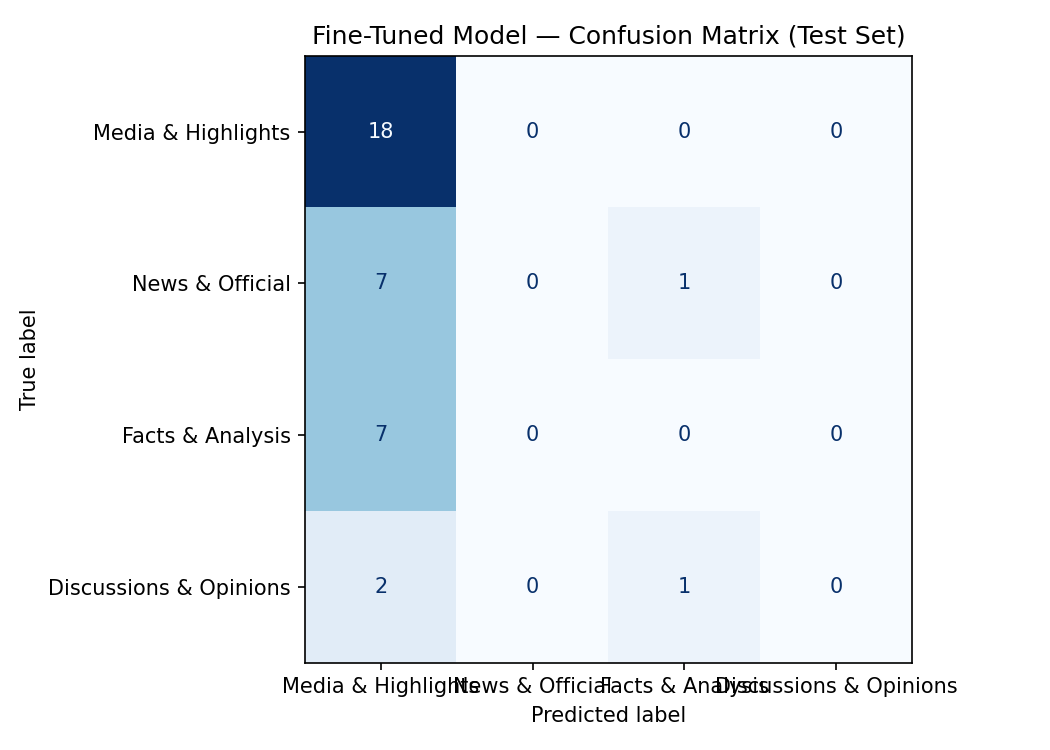
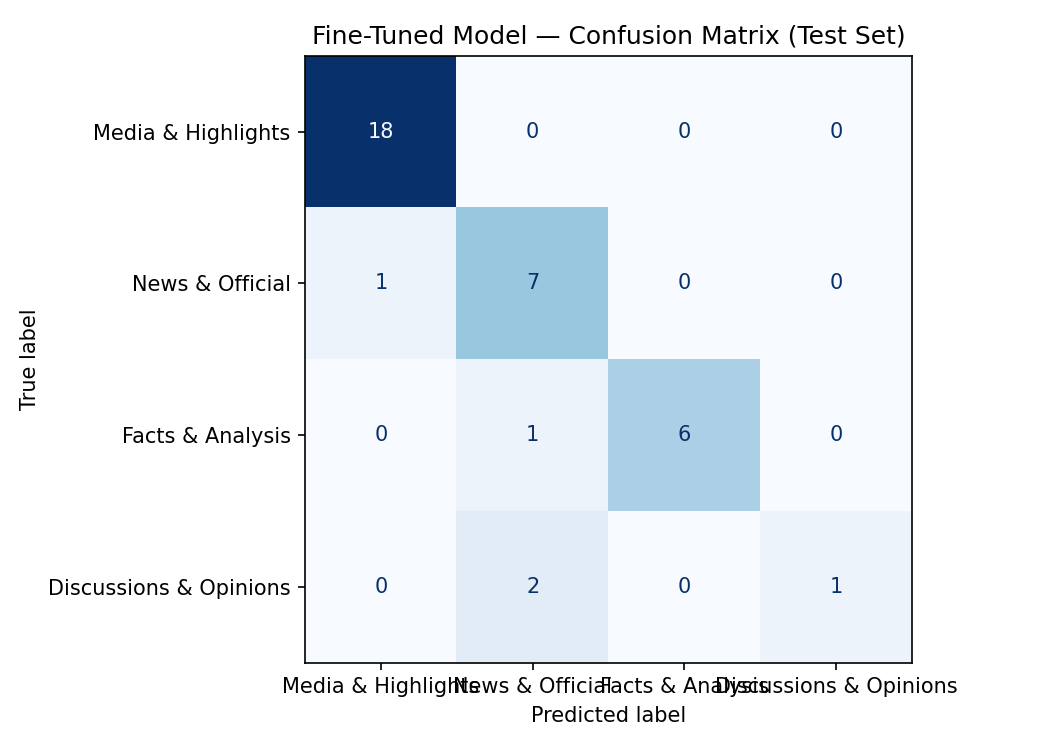
Updated results and some evaluation report along with some required sections filled out

diff --git a/README.md b/README.md
@@ -10,7 +10,7 @@ Link:
 
 ## Community Choice & Reasoning
 
-I chose baseball subreddits because this community contains some posts based on baseball game live highlights and some breaking news on Major League Baseball. This is a good fit for a classification task because it contains hard data and subjective freedom. The discourse is varied enough to be interesting by highly technical, statistic-driven "sabermetric" analysis to immediate, emotional reactions during live game threads.
+I chose baseball subreddits because this community contained some posts based on baseball game live highlights and some breaking news on Major League Baseball. This was a good fit for a classification task because it included hard data and subjective freedom. The discourse was varied enough to be interesting by highly technical, statistic-driven "sabermetric" analysis to immediate, emotional reactions during live game threads.
 
 ---
 
@@ -20,54 +20,80 @@ I chose baseball subreddits because this community contains some posts based on 
 |--------|-------------------------|------------------------------|------------------------------|
 | Media & Highlights | Direct video clips of gameplay or in-game events. | Padres extend their lead to five with a Jackson Merrill towering 2-run shot in the 9th | The Rays take the lead and drop a 4-run 5th inning on Shohei Ohtani |
 | News & Official | Direct links to reports, signings, transactions, or injury updates from recognized media or MLB sources. | [MLBTR] Braves To Select Carlos Carrasco, Jair Camargo | [Stebbins] Out in Milwaukee, the Guardians recalled Kahlil Watson from Triple-A Columbus while placing Chase DeLauter on the 10-day injured list |
-| Facts & Analysis | Structured arguments supported by specific, verifiable statistical evidence (e.g., WAR, ERA+, historical trends), including fun facts. | Brett Kerry of the Angels just recorded a 5 pitch scoreless inning whilst also committing two errors | On this date in 1960, Ted Williams became the 4th member of the 500 HR club — here's what the leaderboard looked like on 6/17/1960 |
-| Discussions & Opinions | Subjective discussions, opinions, or "hot takes". | Has anyone seen an mlb sculpture that is a good likeness of its subject? | Adjustments after breaking Hamate |
+| Facts & Analysis | Structured arguments supported by specific, verifiable statistical evidence (e.g., WAR, ERA+, historical trends), including fun facts and player's data of today's game without video clips. | Brett Kerry of the Angels just recorded a 5 pitch scoreless inning whilst also committing two errors | On this date in 1960, Ted Williams became the 4th member of the 500 HR club — here's what the leaderboard looked like on 6/17/1960 |
+| Discussions & Opinions | Subjective discussions, questions, hypotheses, opinions, or "hot takes". | Has anyone seen an mlb sculpture that is a good likeness of its subject? | Do player's contracts pause if we have a full season lockout next year? |
 
 ---
 
 ## Data Collection
 
-**Data Collection Source:** r/baseball
-**Labeling Process:** 
-**Label Distribution:** 
-**3 Difficult-to-label Examples:**
-- 
-- 
-- 
+- **Data Collection Source:** r/baseball
+- **Labeling Process:** I classified the total of 240 posts from baseball subreddits in 4 labels based on the label definitions from the "Label Taxonomy" section above. I also added notes on some posts for any difficult cases that are hard to classify. I also used ChatGPT to pre-label the first 50 posts with difficult cases explained, and I reviewed and corrected them by using two columns, "label" for my verified label and "label_by_model" for pre-labeled ones.
+- **Label Distribution:** I had 120 posts on "Media & Highlights", 50 post on "News & Official", 50 posts on "Facts & Analysis", and 20 posts on "Discussions & Opinions". There were high frequency of "Media & Highlights" (50%) because many of the posts included video clips of in-game events. "Discussions & Opinions" were the lowest frequency (8.3%) because there were only high-effort subjective threads included in the baseball subreddits. After collecting 200 posts, I saw "News & Official" was underrepresented, so I added 40 more posts, including some posts for "Media & Highlights" to match the expected number of posts that I specified in Data Collection Plan section of planning.md, and some posts for "Discussions & Opinions" to avoid underrepresentation.
+- **3 Difficult-to-label Examples:**
+
+| Example Post | Two labels that sit at the boundary | Notes |
+|-----------------------------|----------------------|-----------------------------------|
+| [CloseCallSports] Explains the "Contreras Rule" in relation to José Caballero's pitch clock "antics" and warning given by ump in Sunday's game against the Blue Jays | "Media & Highlights" vs. "Facts & Analysis" | If the video is the focus, use "Media & Highlights". If the text is the focus, use "Facts & Analysis". |
+| The Red Sox are the 2nd time in MLB history since 1898 to leave 13+ runners on base and score 1 or 0 runs in back-to-back games, joining the 1919 Washington Nationals. | "News & Official" vs. "Facts & Analysis" | If it is a simple statement of an event, use "News & Official". If it interprets the event, use "Facts & Analysis". |
+| [TJStats] My Top 100 MLB Prospects | "Facts & Analysis" vs. "Discussions & Opinions" | If a specific stat is used to support a logical claim, use "Facts & Analysis". If there is an image that includes statistical information, use "Facts & Analysis". If no stat or evidence is included, use "Discussions & Opinions". |
 
 ---
 
 ## Fine Tuning Approach
 
-
+- **Base Model:** distilbert-base-uncased
+- **Training Setup:** 
+- **Hyperparameter Decisions:** I changed 4 things in hyperparamters. I changed num_train_epochs from 3 to 5, decreased the learning_rate to 5e-5, and increased the weight_decay to 0.10 and warmup_steps to 100.
 
 ---
 
 ## Baseline Description
 
-
+The prompt I used was to say to the model that you are classifying the posts from baseball subreddits using the four labels I defined from the Labels section of planning.md. For the examples, I used the example post #1 from "Media & Highlights" and "News & Official" each, and the example post #2 from "Facts & Analysis" and "Discussions & Opinions" each. The results were collected by 
 
 ---
 
 ## Full Evaluation Report
 
-**Model Metrics:**
+**Model Per-Class Metrics:**
 
-| Metric Class Name | Model #1 Performance | Model #2 Performance |
-|-------|----------------------|----------------------|
-|  |  |  |
-|  |  |  |
+- Model 1: llama-3.3-70b-versatile (Overall Accuracy: 0.861)
+| Label | Precision | Recall | F1-Score | Support |
+|-------|-----------|--------|----------|---------|
+| Media & Highlights | 1.00 | 0.94 | 0.97 | 18 |
+| News & Official | 0.64 | 0.88 | 0.74 | 8 |
+| Facts & Analysis | 1.00 | 0.86 | 0.92 | 7 |
+| Discussions & Opinions | 0.50 | 0.33 | 0.40 | 3 |
 
-**Specific Wrong Predictions & Analysis:**
-
-| Post | Model 1 Prediction & Confidence | Model 2 Prediction & Confidence | Status | Analysis | One Correct Example |
-|------|---------------------------------|---------------------------------|--------|---------------------|------------------|
-|  |  |  |  |  |  |
-|  |  |  |  |  |  |
-|  |  |  |  |  |  |
+- Model 2: distilbert-base-uncased (Overall Accuracy: 0.889)
+| Label | Precision | Recall | F1-Score | Support |
+|-------|-----------|--------|----------|---------|
+| Media & Highlights | 0.95 | 1.00 | 0.97 | 18 |
+| News & Official | 0.70 | 0.88 | 0.78 | 8 |
+| Facts & Analysis | 1.00 | 0.86 | 0.92 | 7 |
+| Discussions & Opinions | 1.00 | 0.33 | 0.50 | 3 |
 
 **Confusion Matrix:**
 
+![alt_text](outputs/confusion_matrix.png)
+
+**Wrong Predictions & Analysis:**
+
+| Post | Analysis |
+|------|--------------------|
+|  |  |
+|  |  |
+|  |  |
+
+**Sample Classifications:**
+| Post | Model 1 Prediction | Model 1 Confidence | Model 2 Prediction | Model 2 Confidence |
+|------|--------------------|--------------------|--------------------|--------------------|
+|  |  |  |  |  |
+|  |  |  |  |  |
+|  |  |  |  |  |
+
+*One Correct Prediction & Explanation why it is reasonable:*
 
 
 ---
@@ -102,108 +128,52 @@ I chose baseball subreddits because this community contains some posts based on 
 
 ## Notes (I will delete later)
 
-🎯 Baseline accuracy: 0.806  (evaluated on 36/36 parseable responses)
+🎯 Baseline accuracy: 0.861  (evaluated on 36/36 parseable responses)
 
 Per-class metrics (baseline):
                         precision    recall  f1-score   support
 
-    Media & Highlights       0.94      0.94      0.94        18
-       News & Official       0.58      0.88      0.70         8
-      Facts & Analysis       1.00      0.57      0.73         7
+    Media & Highlights       1.00      0.94      0.97        18
+       News & Official       0.64      0.88      0.74         8
+      Facts & Analysis       1.00      0.86      0.92         7
 Discussions & Opinions       0.50      0.33      0.40         3
 
-              accuracy                           0.81        36
-             macro avg       0.76      0.68      0.69        36
-          weighted avg       0.84      0.81      0.80        36
+              accuracy                           0.86        36
+             macro avg       0.78      0.75      0.76        36
+          weighted avg       0.88      0.86      0.86        36
 
-<!--- Reflect briefly: where did the baseline struggle? Are there specific labels it consistently confuses? Write down your hypothesis — you'll test it after fine-tuning. --->
+🎯 Fine-tuned model accuracy: 0.889
 
-Wrong predictions: 18 / 36
+Per-class metrics (fine-tuned model):
+                        precision    recall  f1-score   support
+
+    Media & Highlights       0.95      1.00      0.97        18
+       News & Official       0.70      0.88      0.78         8
+      Facts & Analysis       1.00      0.86      0.92         7
+Discussions & Opinions       1.00      0.33      0.50         3
+
+              accuracy                           0.89        36
+             macro avg       0.91      0.77      0.79        36
+          weighted avg       0.91      0.89      0.88        36
+
+Wrong predictions: 4 / 36
 
 --- #1 ---
-Text:      [TJ Stats] Outs Above Average Leaders - Outfielder
-True:      Facts & Analysis
-Predicted: Media & Highlights  (confidence: 0.31)
-
---- #2 ---
-Text:      Do player's contracts pause if we have a full season lockout next year?
-True:      Discussions & Opinions
-Predicted: Facts & Analysis  (confidence: 0.28)
-
---- #3 ---
-Text:      The Red Sox had 13 on base tonight. They lost 3-0.
-True:      Facts & Analysis
-Predicted: Media & Highlights  (confidence: 0.31)
-
---- #4 ---
-Text:      Gerrit Cole throws a quality start against the White Sox on the back of 11 runs of run support: 6 IP, 3 H, 2 ER, 2 BBs, 6 Ks. Season ERA of 2.57
-True:      Facts & Analysis
-Predicted: Media & Highlights  (confidence: 0.33)
-
---- #5 ---
 Text:      [Kowatsch] Julio Rodriguez exits the game before the top of the seventh. Victor Robles moves to center field and Rob Refsnyder in at right.
 True:      News & Official
-Predicted: Media & Highlights  (confidence: 0.35)
+Predicted: Media & Highlights  (confidence: 0.98)
 
---- #6 ---
-Text:      [Seidler] The Seattle Mariners select the contract of Curtis Washington Jr. from Everett AquaSox. As far as I can tell they needed an emergency OF for tonight, could physically only get a player from ...
-True:      News & Official
-Predicted: Media & Highlights  (confidence: 0.29)
-
---- #7 ---
-Text:      [Gelb] Phillies optioned Andrew Painter after the game. Theyll bring an extra reliever for Thursday, then try something different next week with No. 5 spot in rotation.
-True:      News & Official
-Predicted: Media & Highlights  (confidence: 0.33)
-
---- #8 ---
-Text:      [Gelb] Phillies signed old friend Kolby Allard to a minor-league deal. Hes going to Triple A.
-True:      News & Official
-Predicted: Media & Highlights  (confidence: 0.30)
-
---- #9 ---
-Text:      [Britton] Francisco Lindor and Tyrone Taylor will start rehab assignments tomorrow with Binghamton.
-True:      News & Official
-Predicted: Media & Highlights  (confidence: 0.28)
-
---- #10 ---
-Text:      [Talkin baseball] Randy Arozarena heads to the injured list with hamstring soreness in the midst of the very good season he's having
-True:      News & Official
-Predicted: Media & Highlights  (confidence: 0.29)
-
---- #11 ---
-Text:      A politician in Memphis argued against renovations of the local baseball stadium by saying "People are playing pickleball" instead
-True:      News & Official
-Predicted: Media & Highlights  (confidence: 0.27)
-
---- #12 ---
+--- #2 ---
 Text:      It appears the 2026 MLB All-Star Game hats have leaked thru an ad on TikTok
 True:      Discussions & Opinions
-Predicted: Media & Highlights  (confidence: 0.27)
+Predicted: News & Official  (confidence: 0.88)
 
---- #13 ---
+--- #3 ---
 Text:      [Matheson] Anthony Santander is scheduled to start hitting "either this weekend or next", John Schneider said. So, sometime soon. "There's a shot he could definitely be a factor." Long road from here,...
 True:      Discussions & Opinions
-Predicted: Media & Highlights  (confidence: 0.30)
+Predicted: News & Official  (confidence: 0.90)
 
---- #14 ---
-Text:      Eduardo Rodriguez's final line against the Angels: 7.0 IP 1R/ER 1HR, 3BB, 5K
-True:      Facts & Analysis
-Predicted: Media & Highlights  (confidence: 0.33)
-
---- #15 ---
+--- #4 ---
 Text:      [CloseCallSports] Explains the "Contreras Rule" in relation to José Caballero's pitch clock "antics" and warning given by ump in Sunday's game against the Blue Jays
 True:      Facts & Analysis
-Predicted: Media & Highlights  (confidence: 0.30)
-
-==================================================
-RESULTS COMPARISON
-==================================================
-Model                               Accuracy
----------------------------------------------
-Zero-shot baseline (Groq)              0.806
-Fine-tuned DistilBERT                  0.500
----------------------------------------------
-
-Fine-tuning regression: 0.306
-
-Use these numbers in your README evaluation report.
+Predicted: News & Official  (confidence: 0.89)

diff --git a/planning.md b/planning.md
@@ -14,8 +14,8 @@ I chose baseball subreddits (r/baseball) because this community contains some po
 |--------|-------------------------|------------------------------|------------------------------|
 | Media & Highlights | Direct video clips of gameplay or in-game events. | Padres extend their lead to five with a Jackson Merrill towering 2-run shot in the 9th | The Rays take the lead and drop a 4-run 5th inning on Shohei Ohtani |
 | News & Official | Direct links to reports, signings, transactions, or injury updates from recognized media or MLB sources. | [MLBTR] Braves To Select Carlos Carrasco, Jair Camargo | [Stebbins] Out in Milwaukee, the Guardians recalled Kahlil Watson from Triple-A Columbus while placing Chase DeLauter on the 10-day injured list |
-| Facts & Analysis | Structured arguments supported by specific, verifiable statistical evidence (e.g., WAR, ERA+, historical trends), including fun facts. | Brett Kerry of the Angels just recorded a 5 pitch scoreless inning whilst also committing two errors | On this date in 1960, Ted Williams became the 4th member of the 500 HR club — here's what the leaderboard looked like on 6/17/1960 |
-| Discussions & Opinions | Subjective discussions, opinions, or "hot takes". | Has anyone seen an mlb sculpture that is a good likeness of its subject? | Adjustments after breaking Hamate |
+| Facts & Analysis | Structured arguments supported by specific, verifiable statistical evidence (e.g., WAR, ERA+, historical trends), including fun facts and player's data of today's game without video clips. | Brett Kerry of the Angels just recorded a 5 pitch scoreless inning whilst also committing two errors | On this date in 1960, Ted Williams became the 4th member of the 500 HR club — here's what the leaderboard looked like on 6/17/1960 |
+| Discussions & Opinions | Subjective discussions, questions, hypotheses, opinions, or "hot takes". | Has anyone seen an mlb sculpture that is a good likeness of its subject? | Do player's contracts pause if we have a full season lockout next year? |
 
 ---
 
@@ -23,10 +23,10 @@ I chose baseball subreddits (r/baseball) because this community contains some po
 <!-- What type of post will be genuinely ambiguous between two labels? How will you handle it when you encounter it during annotation? -->
 | Labels | Definition of Label | Ambiguities / Edge Cases | Example Post | How to Handle It |
 |--------|-------------------------|---------------------------|-------------------------|----------------------|
-| Media & Highlights | Direct video clips of gameplay or in-game events | Clips paired with an analytical caption | [CloseCallSports] Explains the "Contreras Rule" in relation to José Caballero's pitch clock "antics" and warning given by ump in Sunday's game against the Blue Jays | If the video is the focus, use "Media & Highlights". If the text is the focus, use "Analysis". |
-| News & Official | Direct links to reports, signings, transactions, or injury updates from recognized media or MLB sources | Historical facts presented as the news | The Red Sox are the 2nd time in MLB history since 1898 to leave 13+ runners on base and score 1 or 0 runs in back-to-back games, joining the 1919 Washington Nationals. | If it is a simple statement of an event, use "News & Official". If it interprets the event, use "Facts & Analysis". |
-| Facts & Analysis | Structured arguments supported by specific, verifiable statistical evidence (e.g., WAR, ERA+, historical trends), including fun facts | Subjective opinions that mention a stat but don't use it to prove an argument | [TJStats] My Top 100 MLB Prospects | If a specific stat is used to support a logical claim, use "Facts & Analysis". If there is an image that includes statistical information, use "Facts & Analysis". If no stat or evidence is included, use "Discussions & Opinions". |
-| Discussions & Opinions | Subjective discussions, opinions, or "hot takes" | Power rankings or speculative articles from sports media | NBC Sports MLB Power Rankings: Schlittler showing Cy Young form for Yankees, White Sox aren’t going away | If the post is an opinion piece (even if written by a journalist), use "Discussions & Opinions" as it represents an argument rather than a raw fact. |
+| Media & Highlights | Direct video clips of gameplay or in-game events. | Clips paired with an analytical caption | [CloseCallSports] Explains the "Contreras Rule" in relation to José Caballero's pitch clock "antics" and warning given by ump in Sunday's game against the Blue Jays | If the video is the focus, use "Media & Highlights". If the text is the focus, use "Analysis". |
+| News & Official | Direct links to reports, signings, transactions, or injury updates from recognized media or MLB sources. | Historical facts presented as the news | The Red Sox are the 2nd time in MLB history since 1898 to leave 13+ runners on base and score 1 or 0 runs in back-to-back games, joining the 1919 Washington Nationals. | If it is a simple statement of an event, use "News & Official". If it interprets the event, use "Facts & Analysis". |
+| Facts & Analysis | Structured arguments supported by specific, verifiable statistical evidence (e.g., WAR, ERA+, historical trends), including fun facts and player's data of today's game. | Subjective opinions that mention a stat but don't use it to prove an argument | [TJStats] My Top 100 MLB Prospects | If a specific stat is used to support a logical claim, use "Facts & Analysis". If there is an image that includes statistical information, use "Facts & Analysis". If no stat or evidence is included, use "Discussions & Opinions". |
+| Discussions & Opinions | Subjective discussions, questions, hypotheses, opinions, or "hot takes". | Power rankings or speculative articles from sports media | NBC Sports MLB Power Rankings: Schlittler showing Cy Young form for Yankees, White Sox aren’t going away | If the post is an opinion piece (even if written by a journalist), use "Discussions & Opinions" as it represents an argument rather than a raw fact. If the post is asking for a question, hypothesis, or opinion, use "Discussions & Opinions". |
 
 ---
 